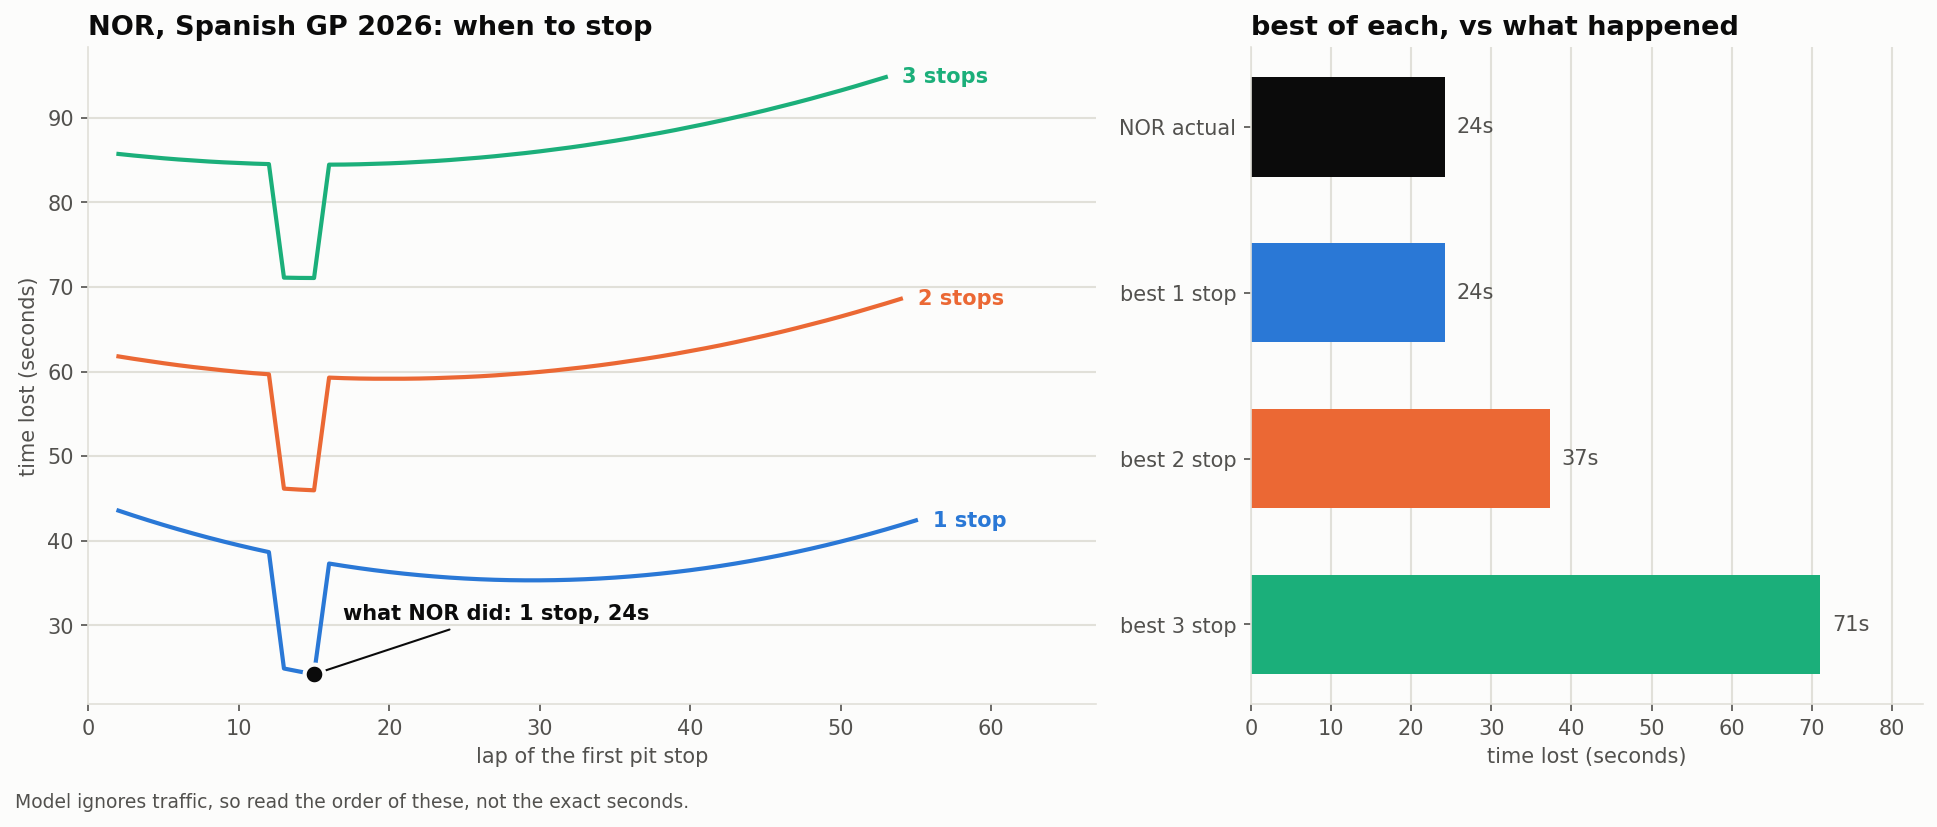
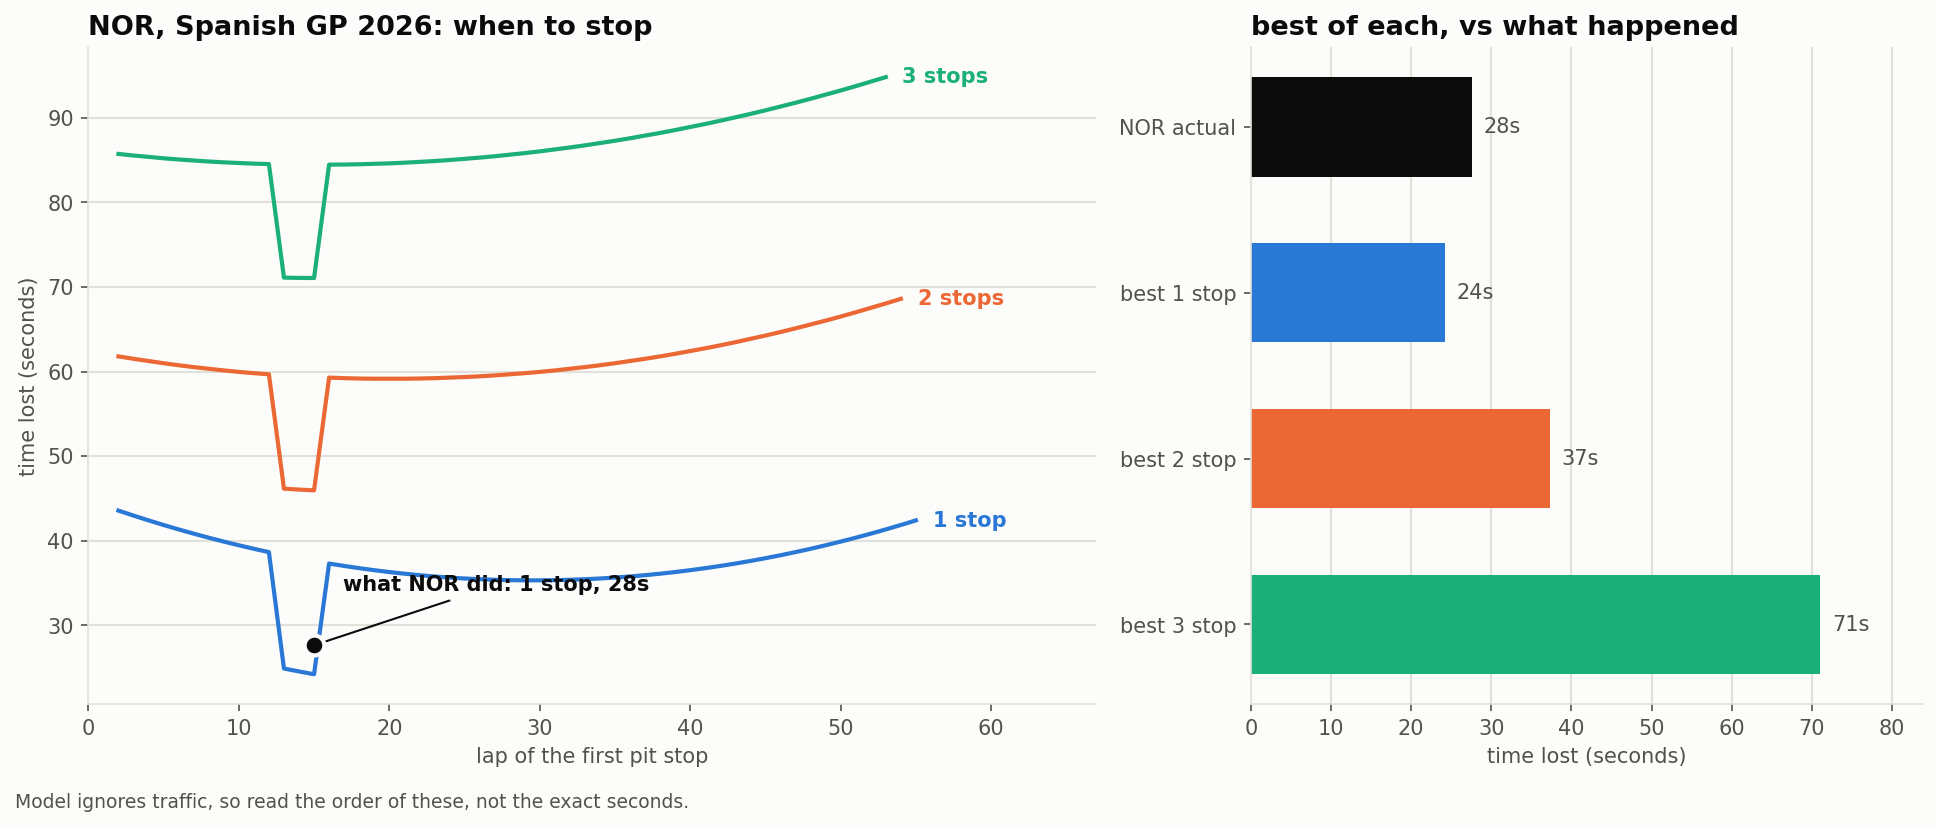
Charging each driver's real pit stop time, not the circuit average

Changed region(s): [[0.1549, 0.6953, 0.3407, 0.8162], [0.7434, 0.0907, 0.7744, 0.2116]]

diff --git a/scripts/11_what_if.py b/scripts/11_what_if.py
@@ -33,6 +33,7 @@ from pathlib import Path
 
 import fastf1
 import matplotlib.pyplot as plt
+import pandas as pd
 
 from strategy import load_circuits, even_pit_laps, time_lost_real
 
@@ -83,14 +84,64 @@ red_laps = {int(n) for n in laps.loc[laps.ts.str.contains("5"), "LapNumber"]}
 mine = laps[laps["Driver"] == DRIVER].sort_values("LapNumber")
 actual_stops = sorted({int(n) for n in mine.loc[mine["PitInTime"].notna(), "LapNumber"]})
 
+
+# ---------------------------------------------------------------------------
+# how good were their stops, not just their plan?
+# ---------------------------------------------------------------------------
+# up to now every stop got charged the circuit's typical pit loss, so a driver
+# who had a disaster in the pit box looked identical to one who didnt.
+#
+# the pit lane time (crossing the entry line to crossing the exit line) is in
+# the data for every stop, so we can compare each driver's stop to the typical
+# stop at that race:
+#
+#     extra = their pit lane time - the typical pit lane time here
+#
+# positive means the crew were slower than normal, and thats a loss that has
+# nothing to do with strategy
+
+def lane_times(driver_laps):
+    """(lap, seconds in the pit lane) for every stop this driver made."""
+    out = []
+    driver_laps = driver_laps.sort_values("LapNumber")
+    for _, in_lap in driver_laps[driver_laps["PitInTime"].notna()].iterrows():
+        nxt = driver_laps[driver_laps["LapNumber"] == in_lap["LapNumber"] + 1]
+        if nxt.empty or pd.isna(nxt.iloc[0]["PitOutTime"]):
+            continue
+        out.append((int(in_lap["LapNumber"]),
+                    (nxt.iloc[0]["PitOutTime"] - in_lap["PitInTime"]).total_seconds()))
+    return out
+
+
+every_stop = []
+for _, dl in laps.groupby("Driver"):
+    every_stop += [secs for _, secs in lane_times(dl)]
+
+typical_lane = float(pd.Series(every_stop).median()) if every_stop else 0.0
+my_stops = lane_times(mine)
+slow_stop_cost = sum(secs - typical_lane for _, secs in my_stops)
+
 print(f"{DRIVER} at the {RACE} GP {YEAR}, {total_laps} laps")
 print(f"  deg {deg:.3f} s/lap, pit loss {pit_loss:.1f}s")
 print(f"  safety car on laps: {sorted(sc_laps) if sc_laps else 'none'}")
 print(f"  they actually stopped on laps: {actual_stops}")
 
-actual_cost = time_lost_real(deg, pit_loss, total_laps, set(actual_stops),
-                             sc_laps, red_laps)
-print(f"  which the model says cost {actual_cost:.1f}s\n")
+# the plan on its own, assuming a normal stop every time
+plan_cost = time_lost_real(deg, pit_loss, total_laps, set(actual_stops),
+                           sc_laps, red_laps)
+
+# and what their stops really cost on top of that
+actual_cost = plan_cost + slow_stop_cost
+
+print()
+print(f"  typical stop here takes {typical_lane:.1f}s in the pit lane")
+for lap, secs in my_stops:
+    print(f"    lap {lap:>2}: {secs:>5.1f}s   {secs - typical_lane:+.1f}s vs typical")
+print()
+print(f"  their plan cost        {plan_cost:>7.1f}s")
+print(f"  their stops cost       {slow_stop_cost:>+7.1f}s")
+print(f"  total                  {actual_cost:>7.1f}s")
+print()
 
 
 def cost(pit_laps):
@@ -122,18 +173,33 @@ for stops in range(1, MAX_STOPS + 1):
             best = (c, list(plan))
 
     best_per_stops[stops] = best
-    gain = actual_cost - best[0]
+    # compare against their PLAN, not their total. a different plan wouldnt
+    # have had the same slow stop, thats a separate problem
+    gain = plan_cost - best[0]
     print(f"  best {stops} stop: {str(best[1]):<22} {best[0]:>7.1f}s   "
           f"{gain:+.1f}s vs what they did")
 
 best_cost, best_plan = min(best_per_stops.values())
-gain = actual_cost - best_cost
+plan_gain = plan_cost - best_cost
 
 print()
-if gain <= 0.5:
-    print(f"They basically nailed it. Nothing was worth more than {gain:.1f}s.")
+if plan_gain <= 0.5:
+    print(f"THE PLAN: they basically nailed it, nothing beat it by more than "
+          f"{plan_gain:.1f}s.")
 else:
-    print(f"Best option was {best_plan}, worth {gain:.1f}s more than what they ran.")
+    print(f"THE PLAN: {best_plan} was worth {plan_gain:.1f}s more than what they ran.")
+
+if slow_stop_cost > 1:
+    print(f"THE STOPS: they lost {slow_stop_cost:.1f}s in the pit box compared to "
+          f"a normal stop here.")
+elif slow_stop_cost < -1:
+    print(f"THE STOPS: the crew gained them {abs(slow_stop_cost):.1f}s, "
+          f"their stops were quicker than normal.")
+else:
+    print("THE STOPS: normal, nothing gained or lost.")
+
+# everything they could have had: a better plan AND a normal stop
+gain = plan_gain + max(slow_stop_cost, 0.0)
 
 
 # ---------------------------------------------------------------------------

diff --git a/README.md b/README.md
@@ -493,12 +493,27 @@ median    -        31.6
 He was **3.2 seconds slower than his teammate in the pit lane**, and lost P2 by
 0.7. That one stop was the whole race.
 
-**And the tool cant see any of it**, because it charges everyone the circuit's
-typical pit loss. Perfect strategy, ruined in the pit box, and the model says
-everything was fine.
+**So the tool now splits a race into two separate questions.** Was the plan good,
+and was the stop good? They are different problems and they have different
+people to blame.
 
-Thats the clearest example of what step 10 measured. Fixing it is next: use each
-driver's real stop times instead of the circuit average.
+```
+their plan cost           24.2s
+their stops cost          +3.4s
+total                     27.7s
+
+THE PLAN:  they basically nailed it, nothing beat it by more than 0.0s
+THE STOPS: they lost 3.4s in the pit box compared to a normal stop here
+
+3.4s would have got them past: VER, so 1 position better
+```
+
+It works out the stop bit by comparing each driver's time in the pit lane
+against the typical stop at that race, so a slow wheel gun shows up as a cost
+instead of being averaged away.
+
+Which means the tool reaches the same conclusion anyone watching the race
+would: **the strategy was perfect and the pit crew lost him second place.**
 
 
 ## What didn't work
